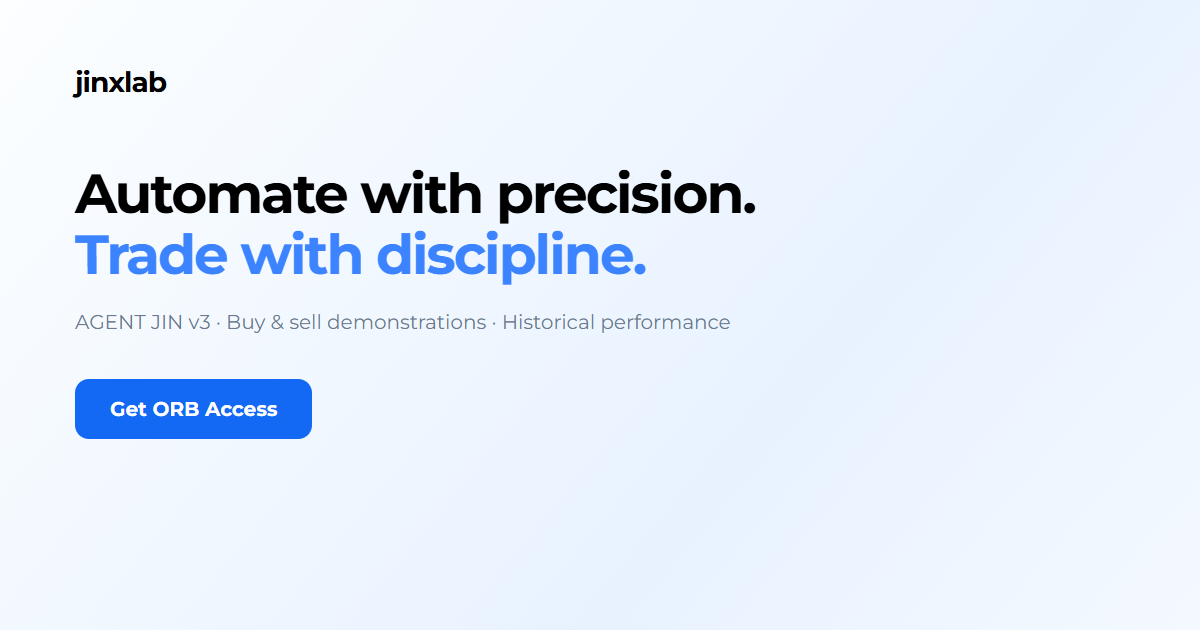
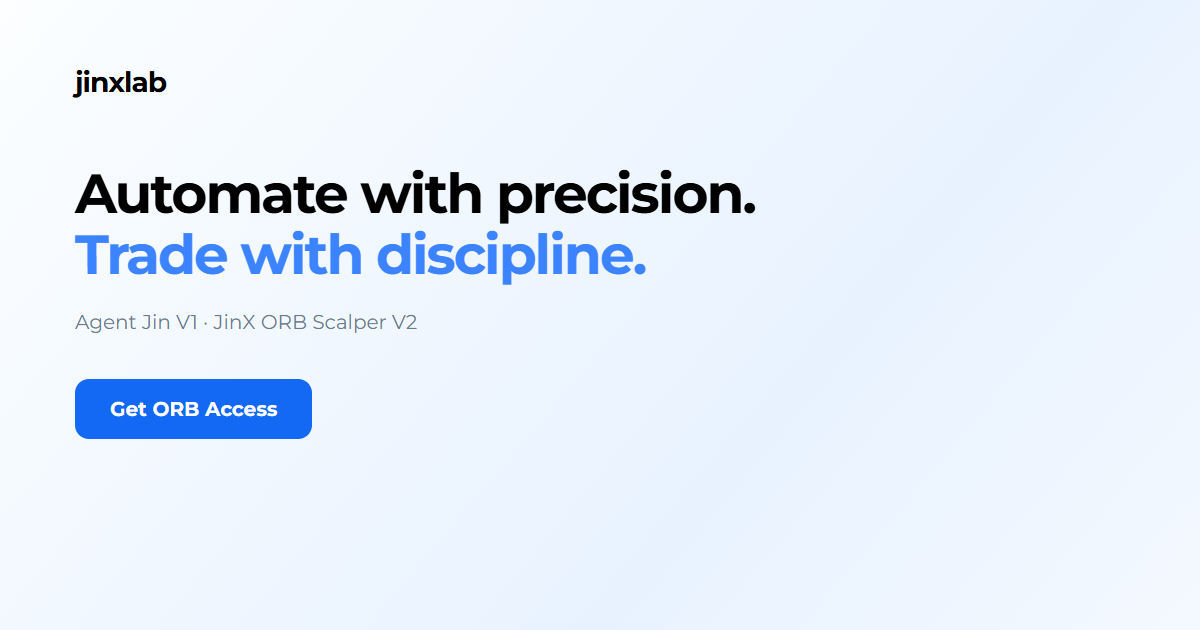
Add JinX ORB Scalper V2 offer, rename Agent Jin V1, and resize certificate images

Changed region(s): [[0.0617, 0.4825, 0.4008, 0.5429], [0.4317, 0.4825, 0.6167, 0.5429]]

diff --git a/src/components/sections/Content.tsx b/src/components/sections/Content.tsx
@@ -27,7 +27,7 @@ export function ReviewSummary() {
 export function TestimonialsSection() {
   const [all, setAll] = useState(false);
   return <section className="section reviews-section" id="reviews"><div className="container">
-    <SectionHeading eyebrow="" title="Trader Feedback on" blue="AGENT JIN">Customer reviews supplied by jinxlab.</SectionHeading>
+    <SectionHeading eyebrow="" title="Trader Feedback on" blue="Agent Jin V1">Customer reviews supplied by jinxlab.</SectionHeading>
     <ReviewSummary/>
     <div className="review-grid">{testimonials.slice(0, all ? undefined : 6).map(review => <article className="review-card" key={review.id}>
       <div className="review-person"><span className="review-avatar">{review.displayName.split(' ').map(part => part[0]).join('')}</span><strong>{review.displayName}</strong>
@@ -51,7 +51,7 @@ export function StrategySection() {
   }, [stopped, interacting, focused, reduced]);
   const demo = demos[selected];
   return <section className="section strategy-section" id="strategy"><div className="container">
-    <SectionHeading eyebrow="" title="See AGENT JIN Map the" blue="Trade in Real Time">Watch the supplied buy and sell chart demonstrations.<br className="desktop-break"/> Explore the examples before discussing the system with jinxlab.</SectionHeading>
+    <SectionHeading eyebrow="" title="See Agent Jin V1 Map the" blue="Trade in Real Time">Watch the supplied buy and sell chart demonstrations.<br className="desktop-break"/> Explore the examples before discussing the system with jinxlab.</SectionHeading>
     <div className="trade-demo" onMouseEnter={() => setInteracting(true)} onMouseLeave={() => setInteracting(false)} onFocusCapture={() => setFocused(true)} onBlurCapture={event => { if (!event.currentTarget.contains(event.relatedTarget)) setFocused(false); }}>
       <div className="demo-tabs" role="tablist" aria-label="Trade demonstration">{demos.map((item,index) => <button key={item.id} id={'demo-tab-' + item.id} role="tab" aria-selected={selected === index} tabIndex={selected === index ? 0 : -1} aria-controls="trade-demo-panel" onClick={() => setSelected(index)} onKeyDown={event => { if (!['ArrowLeft','ArrowRight','Home','End'].includes(event.key)) return; event.preventDefault(); const next = event.key === 'Home' ? 0 : event.key === 'End' ? demos.length - 1 : (selected + 1) % demos.length; setSelected(next); document.getElementById('demo-tab-' + demos[next].id)?.focus(); }}>{item.label}</button>)}</div>
       <div className="demo-frame">
@@ -68,41 +68,41 @@ export function StrategySection() {
 }
 export function PerformanceNotes() {
   return <div className="workflow-notes">
-    <article><span className="feature-icon"><Zap size={20}/></span><div><h3>Manual or <span>Automated</span></h3><p>Discuss the execution mode, platform, and available settings for AGENT JIN v3 with jinxlab.</p></div></article>
-    <article><span className="feature-icon"><CandlestickChart size={20}/></span><div><h3>Explore <span>AGENT JIN v3</span></h3><p>A supplied historical report, buy and sell demonstrations, and one focused trading system.</p></div></article>
+    <article><span className="feature-icon"><Zap size={20}/></span><div><h3>Manual or <span>Automated</span></h3><p>Discuss the execution mode, platform, and available settings for Agent Jin V1 with jinxlab.</p></div></article>
+    <article><span className="feature-icon"><CandlestickChart size={20}/></span><div><h3>Explore <span>Agent Jin V1</span></h3><p>A supplied historical report, buy and sell demonstrations, and one focused trading system.</p></div></article>
   </div>;
 }
 const features = [
   { icon: ChartNoAxesCombined, title: 'Historical Performance', copy: 'Inspect the supplied v1.1 admin report with its period and limitations clearly stated.' },
   { icon: CandlestickChart, title: 'Buy & Sell Demonstrations', copy: 'Explore both supplied buy and sell examples as looping GIF animations.' },
-  { icon: SlidersHorizontal, title: 'Product Configuration', copy: 'Request the v3 parameter list and confirm the available settings for your workflow.' },
+  { icon: SlidersHorizontal, title: 'Product Configuration', copy: 'Request the product parameter list and confirm the available settings for your workflow.' },
   { icon: PanelsTopLeft, title: 'Platform Compatibility', copy: 'Confirm the supported execution platform and requirements before purchase.' },
   { icon: ShieldCheck, title: 'Risk Information', copy: 'Review drawdown context and the risks of automated trading before making a decision.' },
   { icon: Headphones, title: 'Direct Telegram Contact', copy: 'Contact jinxlab directly for product information, access enquiries, and support details.' },
 ];
 export function FeaturesSection() {
-  return <section className="section features-section" id="features"><div className="container"><SectionHeading eyebrow="" title="Explore the Details of" blue="AGENT JIN v3">The evidence, information, and next steps in one place.</SectionHeading><div className="features-grid">{features.map(({icon:Icon,title,copy}) => <Reveal key={title}><article className="feature-card"><span className="feature-icon"><Icon size={21}/></span><h3>{title}</h3><p>{copy}</p></article></Reveal>)}</div></div></section>;
+  return <section className="section features-section" id="features"><div className="container"><SectionHeading eyebrow="" title="Explore the Details of" blue="Agent Jin V1">The evidence, information, and next steps in one place.</SectionHeading><div className="features-grid">{features.map(({icon:Icon,title,copy}) => <Reveal key={title}><article className="feature-card"><span className="feature-icon"><Icon size={21}/></span><h3>{title}</h3><p>{copy}</p></article></Reveal>)}</div></div></section>;
 }
 export function ProductArtwork({ product, priority = false }: { product: Product; priority?: boolean }) {
-  return <div className="product-artwork"><Image src={product.image} alt="Supplied AGENT JIN buy demonstration chart" width={1440} height={988} sizes="(max-width:767px) 94vw, 560px" loading={priority ? 'eager' : 'lazy'} fetchPriority={priority ? 'high' : 'auto'}/></div>;
+  return <div className="product-artwork"><Image src={product.image} alt={product.slug === 'agent-jin' ? 'Supplied Agent Jin buy demonstration chart' : product.name + ' product artwork'} width={1440} height={988} sizes="(max-width:767px) 94vw, 560px" loading={priority ? 'eager' : 'lazy'} fetchPriority={priority ? 'high' : 'auto'}/></div>;
 }
 export function PurchaseAction({ product }: { product: Product }) {
   return <><AccessCTA/><p className="purchase-note">Discuss {product.name} access on Telegram. No payment is collected here.</p></>;
 }
 export function PricingSection() {
-  const product = products[0];
-  return <section className="section pricing-section" id="pricing"><div className="container"><div id="products" className="anchor-point"/><article className="pricing-card">
-    <h2>AGENT JIN v3</h2><p className="pricing-intro">Explore the system, watch the demonstrations,<br/>and discuss access directly with jinxlab.</p>
+  return <section className="section pricing-section" id="pricing"><div className="container"><div id="products" className="anchor-point"/><div className="pricing-grid">{products.map(product => <article className="pricing-card" key={product.slug}>
+    <h2>{product.name}</h2><p className="pricing-intro">Explore the system and discuss access<br/>directly with jinxlab.</p>
     <div className="price-value"><s>{money(product.originalPrice!)}</s><strong>{money(product.price!)}<small>USD</small></strong><span className="discount-label">{product.discountPercent}% OFF · Save {money(product.originalPrice! - product.price!)}</span></div>
-    <ul><li><Check size={16}/>Supplied historical performance report</li><li><Check size={16}/>Buy and sell chart demonstrations</li><li><Check size={16}/>Direct contact through Telegram</li></ul>
+    <p className="offer-soon">Offer closes soon</p>
+    <ul>{product.features.map(feature => <li key={feature}><Check size={16}/>{feature}</li>)}</ul>
     <PurchaseAction product={product}/>
-    <Link className="product-details-link" href="/products/agent-jin/">View full product details<ArrowUpRight size={14}/></Link>
+    <Link className="product-details-link" href={'/products/' + product.slug + '/'}>View full product details<ArrowUpRight size={14}/></Link>
     <p className="pricing-terms">Confirm platform, license, delivery, and support terms before purchase.</p>
-  </article></div></section>;
+  </article>)}</div></div></section>;
 }
 export function FAQSection() {
   return <section className="section faq-section" id="faq"><div className="narrow-container"><SectionHeading eyebrow="" title="FAQ"/><div className="faq-list">{faqs.map((faq,index) => <details key={faq.q} className="faq-item" name="frequently-asked"><summary>{faq.q}<span className="faq-plus" aria-hidden="true"/></summary><div className="faq-answer"><p>{faq.a}</p>{index === 8 && <a href={supportHref} target="_blank" rel="noopener noreferrer">Contact jinxlab on Telegram<ArrowUpRight size={14}/></a>}</div></details>)}</div></div></section>;
 }
 export function FinalCTA() {
-  return <section className="final-cta"><div className="container"><h2>Bring Structure to Your Trading.<br/><span>Start With One Clear Workflow.</span></h2><p>Explore AGENT JIN v3 and discuss the right setup with jinxlab.</p><AccessCTA/><ReviewSummary/></div></section>;
+  return <section className="final-cta"><div className="container"><h2>Bring Structure to Your Trading.<br/><span>Start With One Clear Workflow.</span></h2><p>Explore Agent Jin V1 and JinX ORB Scalper V2 with jinxlab.</p><AccessCTA/><ReviewSummary/></div></section>;
 }

diff --git a/src/app/products/[slug]/page.tsx b/src/app/products/[slug]/page.tsx
@@ -13,5 +13,5 @@ export async function generateMetadata({params}:{params:Promise<{slug:string}>})
 }
 export default async function ProductPage({params}:{params:Promise<{slug:string}>}) {
   const {slug}=await params; const p=products.find(p=>p.slug===slug); if (!p) notFound();
-  return <><section className="product-detail container"><Link className="back-link" href="/#products"><ArrowLeft size={15}/>Back to the collection</Link><div className="detail-grid"><ProductArtwork product={p} priority/><div className="detail-copy"><span className="eyebrow">{p.label}</span><h1>{p.name}<span>{p.version ? 'v' + p.version : 'DETAILS SOON'}</span></h1><p>{p.description}</p><div className="detail-specs"><div><span>Execution platform</span><strong>{p.platform || 'To be confirmed'}</strong></div><div><span>License model</span><strong>{p.license || 'To be confirmed'}</strong></div><div><span>Version</span><strong>{p.version || 'To be confirmed'}</strong></div></div><ul className="detail-features">{p.features.map(f=><li key={f}><Check size={16}/>{f}</li>)}</ul><div className="detail-price">{p.price !== null ? <><s>{money(p.originalPrice!)}</s><strong>{money(p.price)}<small>USD</small></strong><span className="badge">{p.discountPercent}% OFF · SAVE {money(p.originalPrice! - p.price)}</span></> : <strong>Contact for pricing.</strong>}</div><PurchaseAction product={p}/></div></div><div className="detail-lower"><article><span className="eyebrow">PRODUCT EVIDENCE</span><h2>{p.slug==='agent-jin' ? 'A historical report, with context.' : 'Performance evidence, when available.'}</h2><p>{p.slug==='agent-jin' ? 'A supplied Agent Jin 1.1 admin screenshot shows historical results on an axis labelled 2020–2026. It is not independently audited, and its live versus backtest status is unconfirmed. It does not establish performance of the v3 product.' : 'No authentic performance report has been supplied for this product. No results from another system are used in its place.'}</p><Link href={'/#performance'}>Explore performance<ArrowUpRight size={16}/></Link></article><article><span className="eyebrow">BEFORE YOU PURCHASE</span><h2>Make an informed decision.</h2><p>Confirm supported platform, available parameters, risk controls, license activation, delivery, support, and applicable purchase terms. Checkout is enabled only when a genuine product-specific payment URL is configured.</p><a href={supportHref}>Contact for product details<ArrowUpRight size={16}/></a></article></div><div className="notice"><Info size={20}/><p>{siteConfig.risk}</p></div></section></>;
+  return <><section className="product-detail container"><Link className="back-link" href="/#products"><ArrowLeft size={15}/>Back to the collection</Link><div className="detail-grid"><ProductArtwork product={p} priority/><div className="detail-copy"><span className="eyebrow">{p.label}</span><h1>{p.name}</h1><p>{p.description}</p><div className="detail-specs"><div><span>Execution platform</span><strong>{p.platform || 'To be confirmed'}</strong></div><div><span>License model</span><strong>{p.license || 'To be confirmed'}</strong></div><div><span>Version</span><strong>{p.version || 'To be confirmed'}</strong></div></div><ul className="detail-features">{p.features.map(f=><li key={f}><Check size={16}/>{f}</li>)}</ul><div className="detail-price">{p.price !== null ? <><s>{money(p.originalPrice!)}</s><strong>{money(p.price)}<small>USD</small></strong><span className="badge">{p.discountPercent}% OFF · SAVE {money(p.originalPrice! - p.price)}</span></> : <strong>Contact for pricing.</strong>}</div><p className="offer-soon">Offer closes soon</p><PurchaseAction product={p}/></div></div><div className="detail-lower"><article><span className="eyebrow">PRODUCT EVIDENCE</span><h2>{p.slug==='agent-jin' ? 'A historical report, with context.' : 'Performance evidence, when available.'}</h2><p>{p.slug==='agent-jin' ? 'A supplied Agent Jin 1.1 admin screenshot shows historical results on an axis labelled 2020–2026. It is not independently audited, and its live versus backtest status is unconfirmed. It does not establish performance of either advertised product.' : 'No authentic performance report has been supplied for this product. No results from another system are used in its place.'}</p>{p.slug === 'agent-jin' && <Link href={'/#performance'}>Explore performance<ArrowUpRight size={16}/></Link>}</article><article><span className="eyebrow">BEFORE YOU PURCHASE</span><h2>Make an informed decision.</h2><p>Confirm supported platform, available parameters, risk controls, license activation, delivery, support, and applicable purchase terms. Checkout is enabled only when a genuine product-specific payment URL is configured.</p><a href={supportHref}>Contact for product details<ArrowUpRight size={16}/></a></article></div><div className="notice"><Info size={20}/><p>{siteConfig.risk}</p></div></section></>;
 }

diff --git a/src/components/sections/Performance.tsx b/src/components/sections/Performance.tsx
@@ -11,5 +11,5 @@ export function PerformanceSection() {
   return <section className="section performance-section" id="performance"><div className="container"><Reveal><SectionHeading eyebrow="THE PERFORMANCE" title="Explore AGENT JIN’s" blue="Historical Performance">Look closer at the numbers. Explore the supplied historical report with the context that matters.</SectionHeading></Reveal>
     <div id="performance-panel" role="region" aria-label="Agent Jin historical performance report" className="performance-panel">
     <><div className="panel-title"><span><span className="report-symbol"><ChartNoAxesCombined size={18}/></span><b>{data.title}</b><span className="badge">HISTORICAL REPORT</span></span><button onClick={() => setExpanded(true)} className="report-expand">View original report <ArrowUpRight size={15}/></button></div><div className="metrics">{data.metrics.map(m => <div key={m.label} className="metric"><span>{m.label}</span><strong>{m.value}</strong><small>{m.detail}</small></div>)}</div><button className="report-image" onClick={() => setExpanded(true)} aria-label="Enlarge supplied Agent Jin historical report"><Image src={data.image} alt="Agent Jin 1.1 admin historical report: total PnL 556,400.62 USD, 11.89 percent maximum drawdown, and 66.88 percent profitable trades" width={4800} height={2814} sizes="(max-width: 1200px) 94vw, 1140px" quality={100}/></button><details className="report-context"><summary><Info size={15}/>About this data & its limitations<span>Read context</span></summary><dl><div><dt>Source</dt><dd>{data.source}</dd></div><div><dt>Period</dt><dd>{data.period}</dd></div><div><dt>Platform</dt><dd>{data.platform}</dd></div><div><dt>Status</dt><dd>{data.statusNote}</dd></div></dl><p>Results are not independently audited. Costs, market conditions, and trading settings can affect outcomes. Historical performance does not guarantee future results.</p></details></>
-    </div><p className="section-footnote"><Info size={14}/>Historical results do not guarantee future performance. Trading involves risk.</p><PerformanceNotes/><AccessCTA/></div>{expanded && data && <Modal label="Agent Jin historical performance report" onClose={() => setExpanded(false)}><Image src={data.image} alt="Original supplied Agent Jin 1.1 admin historical performance report" width={4800} height={2814} sizes="96vw" quality={100}/><p>AGENT JIN 1.1 · Supplied historical report · Not a v3 report</p></Modal>}</section>;
+    </div><p className="section-footnote"><Info size={14}/>Historical results do not guarantee future performance. Trading involves risk.</p><PerformanceNotes/><AccessCTA/></div>{expanded && data && <Modal label="Agent Jin historical performance report" onClose={() => setExpanded(false)}><Image src={data.image} alt="Original supplied Agent Jin 1.1 admin historical performance report" width={4800} height={2814} sizes="96vw" quality={100}/><p>AGENT JIN 1.1 · Supplied historical report · Historical v1.1 admin report</p></Modal>}</section>;
 }

diff --git a/src/data/faqs.ts b/src/data/faqs.ts
@@ -1,11 +1,11 @@
 export const faqs = [
-  { q: 'What is jinxlab?', a: 'jinxlab is a trading automation software brand. Our featured system is AGENT JIN. Review the confirmed specifications for each product before deciding whether it suits your workflow.' },
+  { q: 'What is jinxlab?', a: 'jinxlab is a trading automation software brand. Our featured systems are Agent Jin V1 and JinX ORB Scalper V2. Review the confirmed specifications for each product before deciding whether it suits your workflow.' },
   { q: 'Which trading platforms are supported?', a: 'Supported execution platforms have not yet been confirmed for each product. Please request product-specific compatibility details before purchasing. A historical report does not establish MetaTrader or broker compatibility.' },
   { q: 'Do the bots guarantee profit?', a: 'No. Automated trading systems can lose money, and no profit or return is guaranteed. Historical results and backtests are not reliable indicators of future performance.' },
   { q: 'Can I customize trading settings?', a: 'Available settings and risk controls depend on the product and version. The confirmed parameter lists have not yet been supplied. Request the product documentation before purchase.' },
   { q: 'How are licenses delivered?', a: 'The license model, delivery method, activation limits, and delivery time have not yet been published. Confirm these terms before making a payment.' },
   { q: 'Is installation support available?', a: 'Installation documentation and support arrangements are awaiting confirmation. Contact jinxlab on Telegram at t.me/jinzfx to discuss installation and support before purchase.' },
   { q: 'Can trading bots experience drawdown?', a: 'Yes. Trading bots can experience drawdown, extended losing periods, and financial loss. Market conditions, execution costs, slippage, and configuration can materially affect results.' },
-  { q: 'Are the performance results live or historical testing?', a: 'The displayed screenshot is a supplied historical Agent Jin 1.1 admin report covering an axis labelled 2020–2026. Live versus backtest status and exact testing conditions have not been confirmed. It is not an independent audit and is not a v3 performance report.' },
+  { q: 'Are the performance results live or historical testing?', a: 'The displayed screenshot is a supplied historical Agent Jin 1.1 admin report covering an axis labelled 2020–2026. Live versus backtest status and exact testing conditions have not been confirmed. It is not an independent audit and is not a verified performance report for either advertised product.' },
   { q: 'How can I contact support?', a: 'Contact jinxlab on Telegram at t.me/jinzfx or email jinzfx7@gmail.com. Use the Get ORB Access buttons for product and access enquiries. No payment is collected on this website.' },
 ];

diff --git a/src/data/products.ts b/src/data/products.ts
@@ -1,12 +1,20 @@
 import type { Product } from '@/types';
 export const products: Product[] = [
   {
-    slug: 'agent-jin', name: 'AGENT JIN', label: 'The signature system', version: '3',
-    description: 'Our signature trading automation system. Explore the supplied historical report, then confirm the v3 specification and execution platform before purchase.',
+    slug: 'agent-jin', name: 'Agent Jin V1', label: 'The signature system', version: '1',
+    description: 'Explore Agent Jin V1, the supplied historical report, and the buy and sell demonstrations. Confirm its specification and execution platform before purchase.',
     color: '#1369f4', image: '/images/demos/buy-poster.jpg',
-    platform: null, features: ['v3 product release', 'Historical v1.1 report available', 'Product configuration to be confirmed'],
+    platform: null, features: ['Historical v1.1 report available', 'Buy and sell demonstrations', 'Direct contact through Telegram'],
     price: 649, originalPrice: 800, discountPercent: 18.875, currency: 'USD', license: null,
     checkoutUrl: null, demoVideo: '/videos/agent-jin-promo.mp4', demoPoster: '/images/demos/agent-jin-promo-poster.jpg',
+  },
+  {
+    slug: 'jinx-orb-scalper-v2', name: 'JinX ORB Scalper V2', label: 'The ORB scalper', version: '2',
+    description: 'Explore JinX ORB Scalper V2. Contact jinxlab to confirm its platform, settings, installation, and license details before purchase.',
+    color: '#1369f4', image: '/images/products/jinx-orb-scalper-v2.svg',
+    platform: null, features: ['Version 2', 'Confirm platform and settings', 'Direct contact through Telegram'],
+    price: 599, originalPrice: 800, discountPercent: 25, currency: 'USD', license: null,
+    checkoutUrl: null, demoVideo: null, demoPoster: null,
   },
 ];
 export const money = (value: number) => new Intl.NumberFormat('en-US', { style: 'currency', currency: 'USD', maximumFractionDigits: 0 }).format(value);

diff --git a/src/app/legal/[slug]/page.tsx b/src/app/legal/[slug]/page.tsx
@@ -5,7 +5,7 @@ import { siteConfig } from '@/data/site-config';
 const pages = {
   risk: {title:'Risk disclosure',intro:siteConfig.risk,sections:[
     ['Automation does not remove market risk','Automated systems can experience drawdown, extended losing periods, execution failures, and loss of capital. Slippage, spreads, fees, liquidity, market conditions, and configuration can materially affect outcomes.'],
-    ['Historical report context','The Agent Jin screenshot is a user-supplied v1.1 admin historical report. Its axis is labelled 2020–2026. Exact end dates, assumptions, testing conditions, costs, and live versus backtest status have not been independently confirmed. It is not a verified live profit statement, an independent audit, or evidence of v3 performance.'],
+    ['Historical report context','The Agent Jin screenshot is a user-supplied v1.1 admin historical report. Its axis is labelled 2020–2026. Exact end dates, assumptions, testing conditions, costs, and live versus backtest status have not been independently confirmed. It is not a verified live profit statement, an independent audit, or evidence of performance for either advertised product.'],
     ['Certificate context','The gallery contains supplied prop-firm certificates with recipient details permanently removed. Issuer branding identifies the original issuers. These records are not independently verified, do not establish a business relationship with the issuers, and are not attributed to any jinxlab product.'],
     ['Your decision','Review the complete product specifications and risks before purchasing or trading. Only use capital you can afford to lose. Nothing on this site guarantees an outcome or constitutes personalized investment advice.'],
   ]},

diff --git a/src/components/layout.tsx b/src/components/layout.tsx
@@ -24,7 +24,7 @@ export function Header() {
 }
 export function Footer() {
   return <footer className="site-footer"><div className="container"><div className="footer-top"><div className="footer-brand"><Brand/><p>Trading automation.<br/>A structured approach.</p></div>
-    <div><h3>Explore</h3><Link href="/products/agent-jin/">AGENT JIN v3</Link><Link href="/#performance">Performance</Link><Link href="/#proof">Certificate gallery</Link></div>
+    <div><h3>Explore</h3><Link href="/products/agent-jin/">Agent Jin V1</Link><Link href="/products/jinx-orb-scalper-v2/">JinX ORB Scalper V2</Link><Link href="/#performance">Performance</Link><Link href="/#proof">Certificate gallery</Link></div>
     <div><h3>Support</h3><a href={supportHref} target="_blank" rel="noopener noreferrer">Contact on Telegram</a>{siteConfig.contact.email && <a href={'mailto:' + siteConfig.contact.email}>{siteConfig.contact.email}</a>}<Link href="/contact/#installation">Installation help</Link><Link href="/#faq">FAQ</Link></div>
     <div><h3>Legal</h3><Link href="/legal/terms/">Terms of service</Link><Link href="/legal/privacy/">Privacy policy</Link><Link href="/legal/risk/">Risk disclosure</Link></div>
   </div><p className="risk-footer">{siteConfig.risk}</p><div className="footer-bottom"><span>© {new Date().getFullYear()} jinxlab. All rights reserved.</span><a href={supportHref} target="_blank" rel="noopener noreferrer">t.me/jinzfx</a></div></div></footer>;

diff --git a/src/components/sections/Hero.tsx b/src/components/sections/Hero.tsx
@@ -4,11 +4,11 @@ import { ReviewSummary, AccessCTA } from '@/components/sections/Content';
 export function Hero() {
   const product = products[0];
   return <section className="hero" id="top"><div className="container hero-inner">
-    <h1>Automate with precision.<br/>Trade with discipline.<br/>Discover AGENT JIN v3.</h1>
+    <h1>Automate with precision.<br/>Trade with discipline.<br/>Discover Agent Jin V1.</h1>
     <VideoPlayer src={product.demoVideo!} poster={product.demoPoster!} label="AGENT JIN promotional video" hero/>
-    <p className="hero-description">Explore a structured trading workflow with AGENT JIN v3.<br className="desktop-break"/> Watch the supplied demonstrations and inspect the historical report.</p>
+    <p className="hero-description">Explore a structured trading workflow with Agent Jin V1.<br className="desktop-break"/> Watch the supplied demonstrations and inspect the historical report.</p>
     <ReviewSummary/>
     <AccessCTA/>
-    <div className="hero-chips"><span>Historical performance report</span><span>Buy & sell demonstrations</span><span>AGENT JIN v3</span></div>
+    <div className="hero-chips"><span>Historical performance report</span><span>Buy & sell demonstrations</span><span>Agent Jin V1</span></div>
   </div></section>;
 }

diff --git a/src/app/globals.css b/src/app/globals.css
@@ -28,3 +28,6 @@
 
 /* Fill the showcase rectangle with its own artwork aspect ratio. */
 .proof-showcase .proof-open{aspect-ratio:1002/409;background:#0a1424}.proof-showcase .certificate-image{object-fit:cover}
+
+.pricing-grid{display:grid;grid-template-columns:repeat(2,minmax(0,1fr));gap:26px;max-width:1000px;margin:auto}.pricing-grid .pricing-card{width:100%;margin:0;min-width:0}.pricing-grid .pricing-card h2{min-height:66px;display:flex;align-items:center;justify-content:center}.offer-soon{display:inline-block;margin:14px 0 0;padding:7px 13px;border:1px solid #f4cfa4;border-radius:100px;background:#fff6e9;color:#95520e;font-size:12px;font-weight:600}.proof-card:not(.proof-showcase) .certificate-image{width:82%;height:82%;margin:auto}.proof-card:not(.proof-showcase) .proof-open{display:flex;align-items:center;justify-content:center}.detail-copy h1{display:block;overflow-wrap:break-word}
+@media(max-width:800px){.pricing-grid{grid-template-columns:1fr;max-width:470px}.pricing-grid .pricing-card h2{min-height:0}.proof-card:not(.proof-showcase) .certificate-image{width:78%;height:78%}}

diff --git a/src/data/performance.ts b/src/data/performance.ts
@@ -11,6 +11,6 @@ export const performance = {
     source: 'User-supplied Agent Jin 1.1 (ADMIN VERSION) screenshot.',
     period: '2020–2026, as shown on the report axis; exact end date not supplied.',
     platform: 'TradingView-style strategy report. Execution platform not confirmed.',
-    statusNote: 'Historical report; live versus backtest status has not been independently confirmed. This is a v1.1 admin report, not evidence of v3 performance.',
+    statusNote: 'Historical report; live versus backtest status has not been independently confirmed. This is a v1.1 admin report, not evidence of the advertised products performance.',
   },
 } as const;

diff --git a/src/data/certificates.ts b/src/data/certificates.ts
@@ -1,9 +1,9 @@
 export const certificates = Array.from({ length: 9 }, (_, i) => i === 8 ? {
   id: 9,
   src: '/images/products/agent-jin-banner-animated.svg',
-  alt: 'AGENT JIN v3 product banner: A system for your next chapter, with blue product box artwork',
+  alt: 'Agent Jin V1 product banner: A system for your next chapter, with blue product box artwork',
   type: 'Product showcase',
-  issuer: 'AGENT JIN v3',
+  issuer: 'Agent Jin V1',
 } : ({
   id: i + 1,
   src: '/images/certificates/proof-' + String(i + 1).padStart(2, '0') + '.webp',

diff --git a/README.md b/README.md
@@ -1,6 +1,6 @@
 # jinxlab
 
-Next.js 16 App Router + React + TypeScript + Tailwind. A reference-inspired trading software website for AGENT JIN v3.
+Next.js 16 App Router + React + TypeScript + Tailwind. A reference-inspired trading software website for Agent Jin V1 and JinX ORB Scalper V2.
 
 ## Run and build
 Requires Node 20.9+.
@@ -16,12 +16,12 @@ Development: http://127.0.0.1:3000. Production is a static export in `out/`; ser
 
 ## Content configuration
 - `src/data/site-config.ts`: text-only jinxlab branding, canonical origin, Telegram contact https://t.me/jinzfx.
-- `src/data/products.ts`: AGENT JIN v3, USD 649 offer / USD 800 original price / USD 151 or 18.875% discount; optional genuine checkout URL and licensing information.
+- `src/data/products.ts`: Agent Jin V1 and JinX ORB Scalper V2, Agent Jin V1: USD 649 (was USD 800); JinX ORB Scalper V2: USD 599 (was USD 800, save USD 201 / 25%). Both show Offer closes soon; optional genuine checkout URL and licensing information.
 - `src/data/demos.ts`: supplied buy and sell videos and posters.
 - `src/data/testimonials.ts`: 14 owner-supplied reviews and five-star ratings. No dates or independent verification were provided; none are invented.
 - `src/data/performance.ts`: supplied historical v1.1 admin report and its source limitations.
 - `src/data/faqs.ts`: editable answers.
-- `src/data/certificates.ts`: nine permanently anonymized certificate images.
+- `src/data/certificates.ts`: eight displayed anonymized certificates across two slideshows, with a floating product banner in the third frame.
 
 ## Design and interactions
 The reference was inspected live on 24 October 2026. Its Montserrat family, 700-weight headlines, centered media, blue gradients, rounded cards, review layout, feature rows and pricing composition informed the implementation. The licensed Montserrat variable font is self-hosted; its OFL is in `public/fonts/`.
